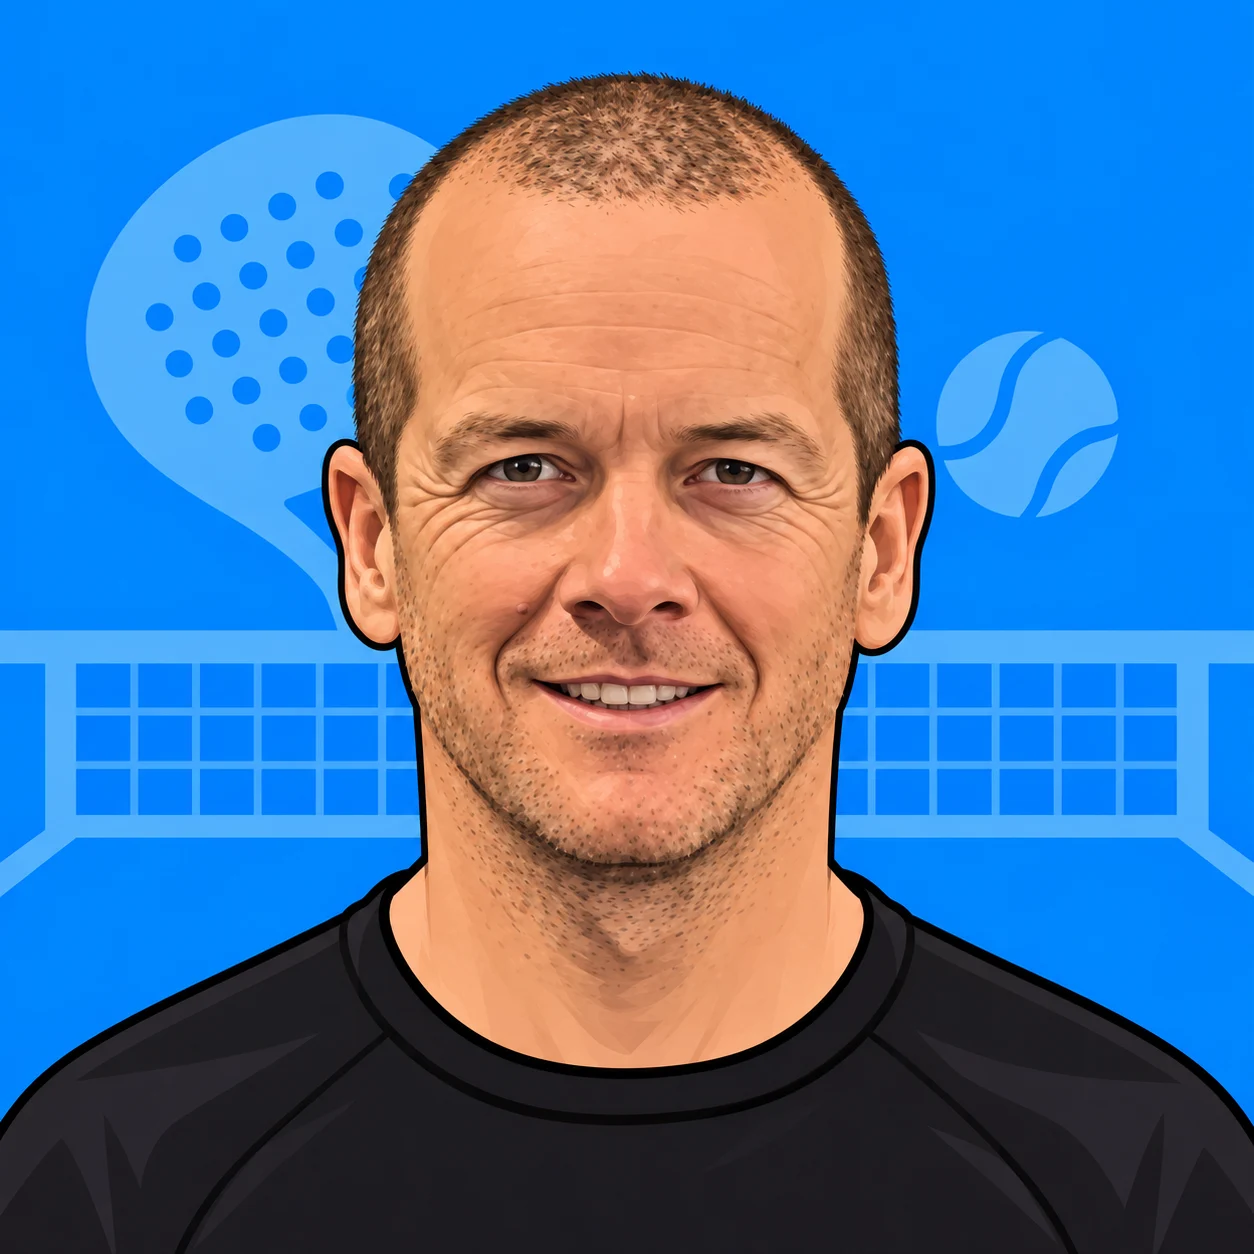
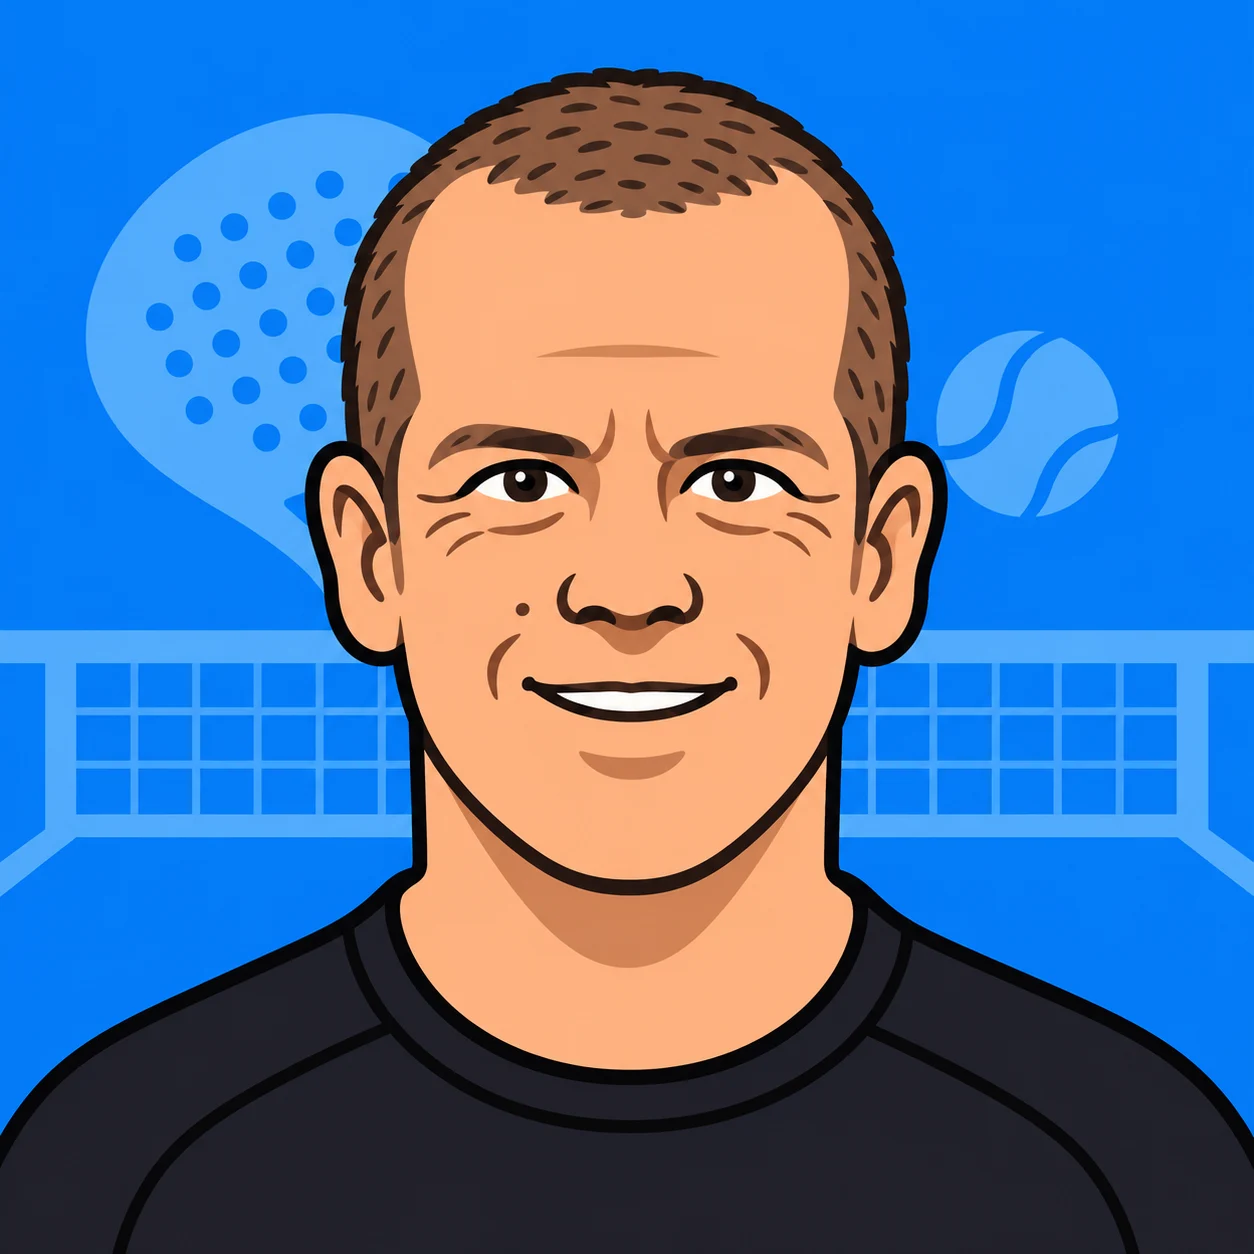
Simplify Kennedy Murphy’s arcade portrait

diff --git a/index.html b/index.html
@@ -11,9 +11,9 @@
   <link rel="preconnect" href="https://fonts.googleapis.com">
   <link rel="preconnect" href="https://fonts.gstatic.com" crossorigin>
   <link href="https://fonts.googleapis.com/css2?family=Barlow+Condensed:wght@600;700;800;900&family=DM+Sans:wght@400;500;600;700;800&display=swap" rel="stylesheet">
-  <link rel="stylesheet" href="./styles.css?v=20261117-kennedy-v3">
-  <script defer src="./portraits.js?v=20261117-kennedy-v3"></script>
-  <script defer src="./app.js?v=20261117-kennedy-v3"></script>
+  <link rel="stylesheet" href="./styles.css?v=20261117-kennedy-v4">
+  <script defer src="./portraits.js?v=20261117-kennedy-v4"></script>
+  <script defer src="./app.js?v=20261117-kennedy-v4"></script>
 </head>
 <body>
 <header class="site-header">

diff --git a/app.js b/app.js
@@ -276,7 +276,7 @@
       delegateClicks(event);
     });
     try {
-      const response=await fetch('./data/official-results.json?v=20261117-kennedy-v3', {cache:'no-store'});
+      const response=await fetch('./data/official-results.json?v=20261117-kennedy-v4', {cache:'no-store'});
       if (!response.ok) throw new Error('HTTP '+response.status);
       const json=await response.json();
       if (!Array.isArray(json.events)) throw new Error('Invalid archive format');

diff --git a/portraits.js b/portraits.js
@@ -2,7 +2,7 @@
 window.PPC_PLAYER_PORTRAITS={
 "p-gavin":"./assets/players/gavin.webp?v=20261117-gavin",
 "p-eric":"./assets/players/eric.webp?v=20261117-eric",
-"p-kennedy":"./assets/players/kennedy.webp?v=20261117-kennedy-v3",
+"p-kennedy":"./assets/players/kennedy.webp?v=20261117-kennedy-v4",
 "p-gary":"./assets/players/gary.webp?v=20261117-gary-v3",
 "p-sean":"./assets/players/sean.webp?v=20261117-sean",
 "p-ciaran":"./assets/players/ciaran.webp?v=20261117-ciaran",
